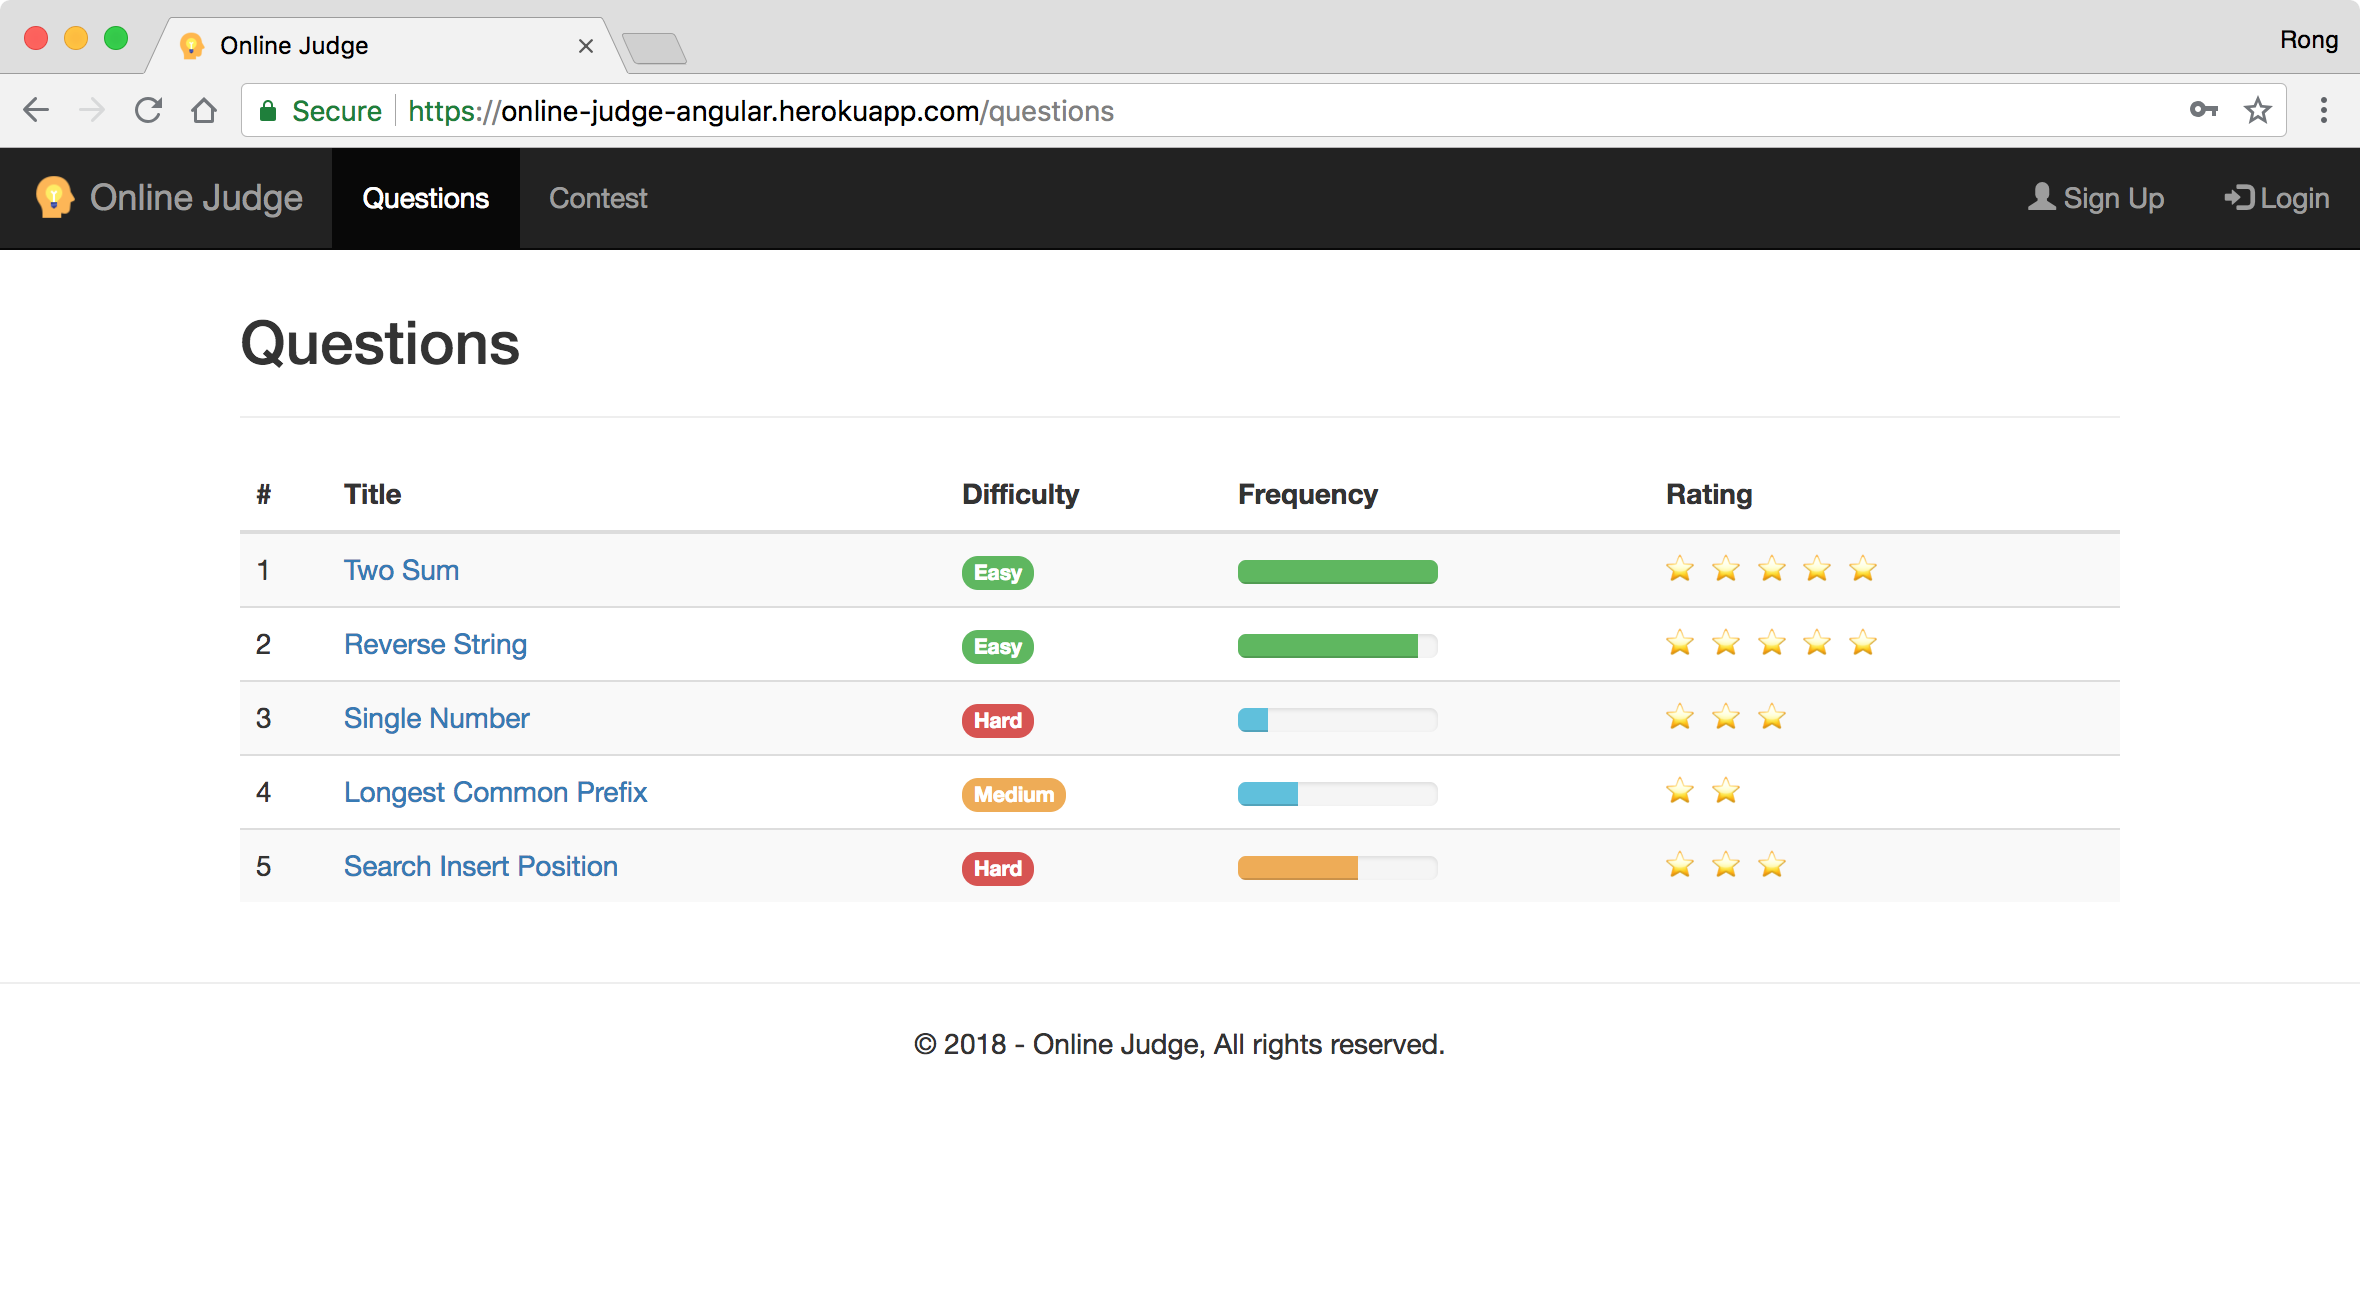
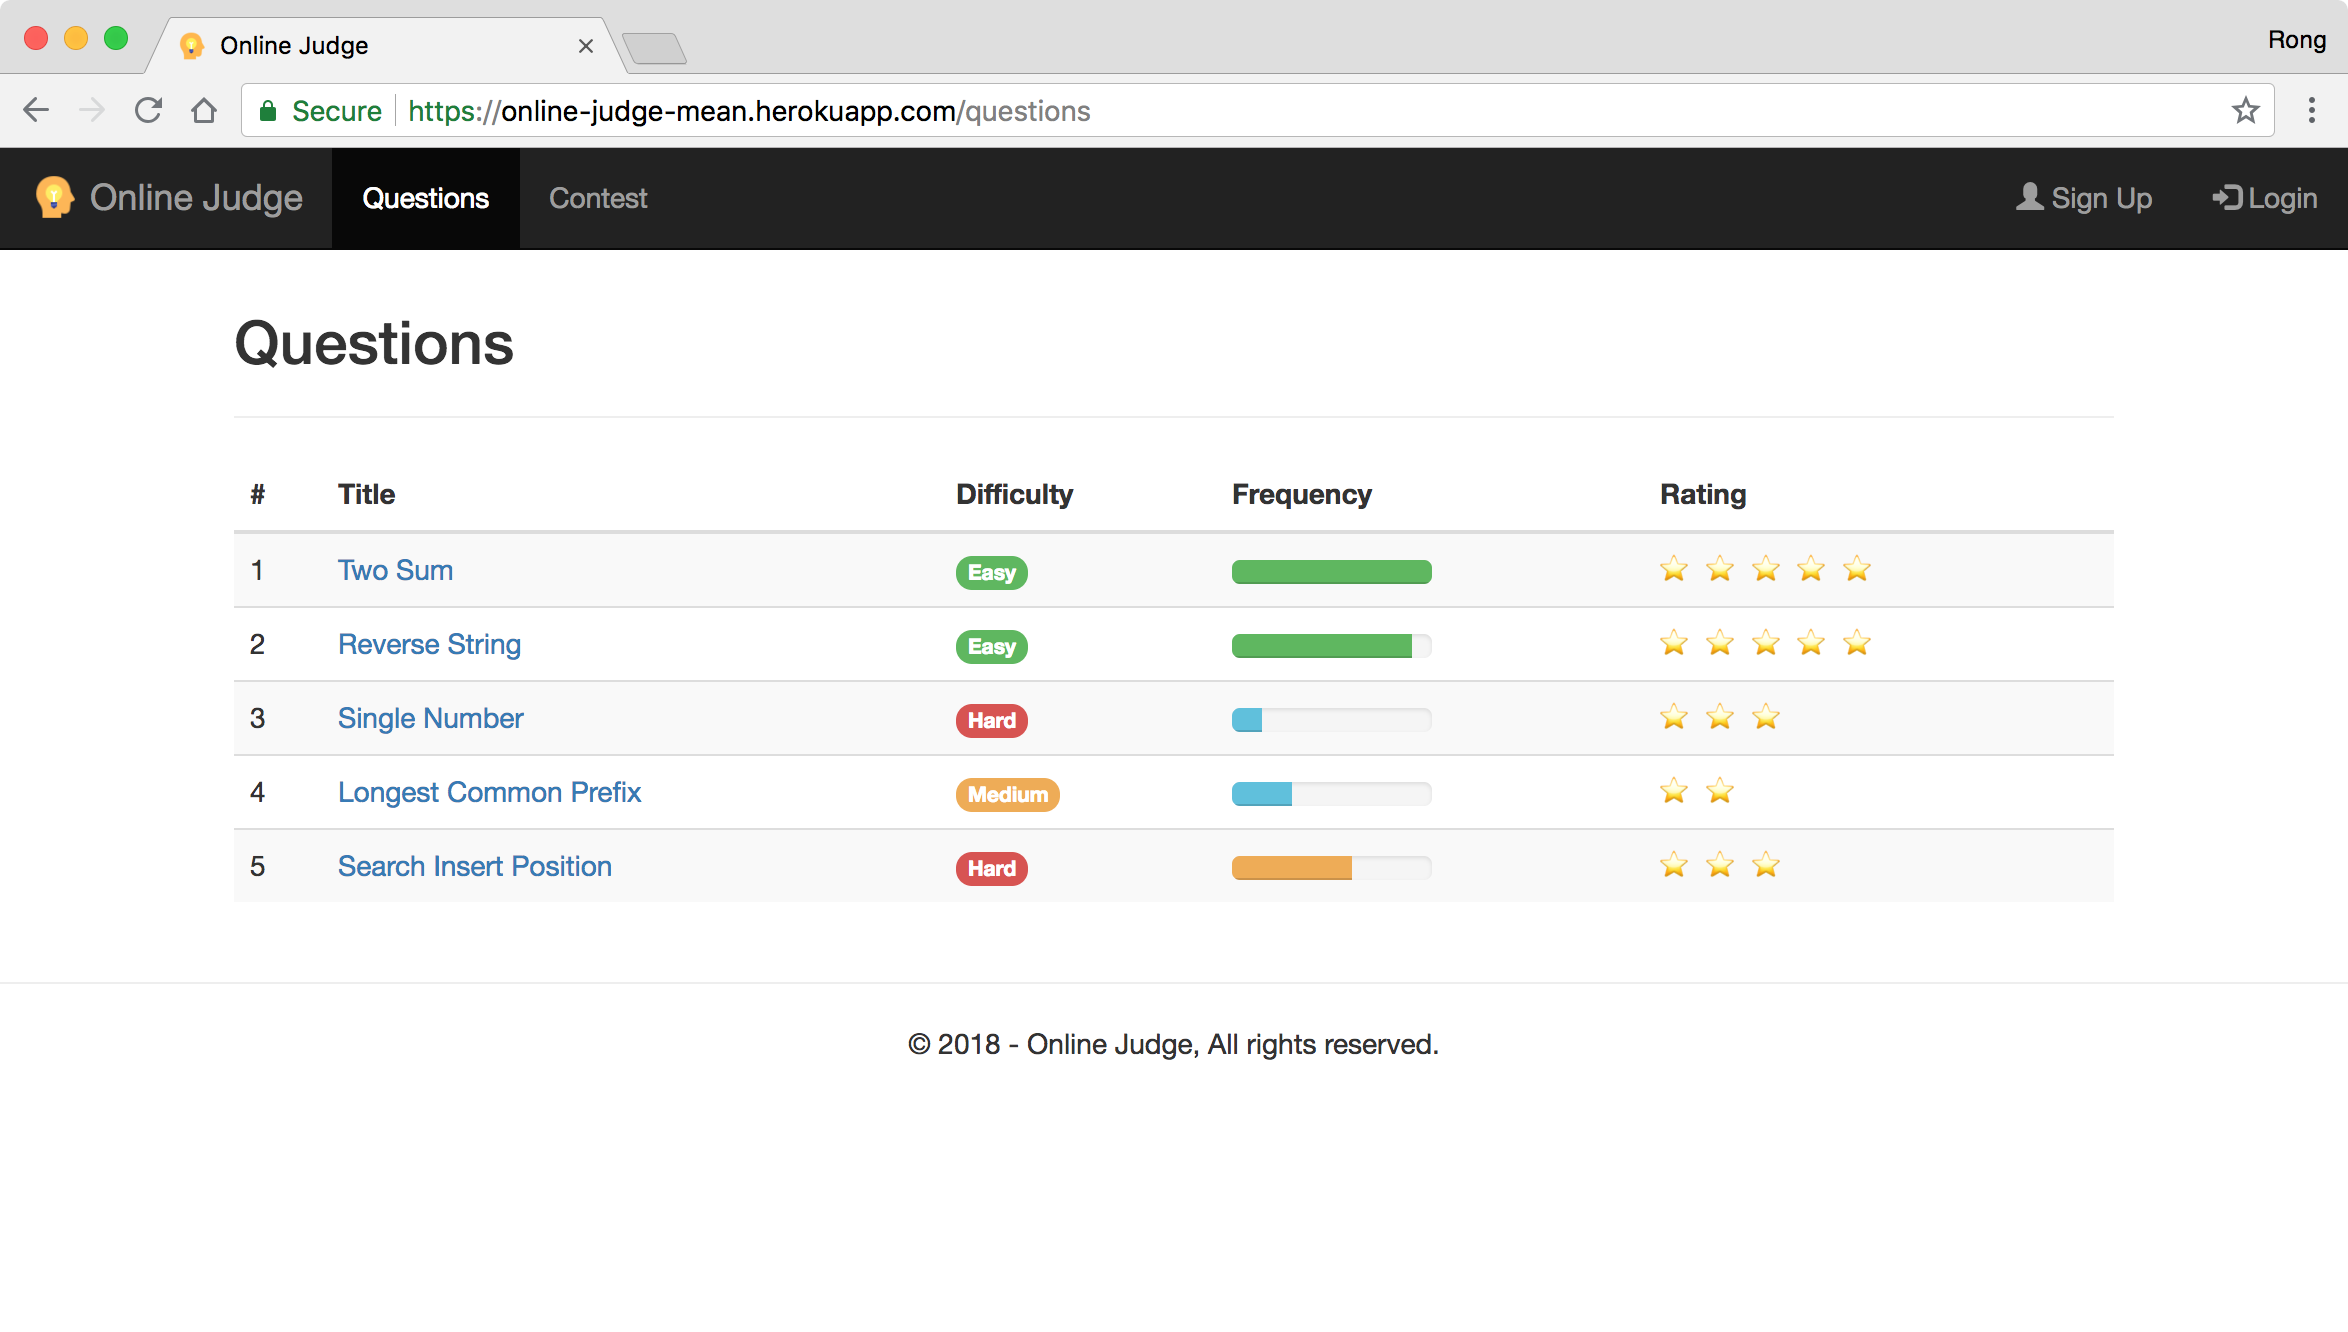
deploy online judge, rename to mean

diff --git a/_tutorial/angular/deploying-full-stack-angular-app-to-heroku.md b/_tutorial/angular/deploying-full-stack-angular-app-to-heroku.md
@@ -328,7 +328,7 @@ The Angular app is built and exported to dist folder. All are static files(html,
 ![image](/public/tutorials/340/build.png){:width="800px"}  
 2) Create App on Heroku
 ```sh
-$ heroku create online-judge-angular
+$ heroku create online-judge-mean
 ```
 3) Create git repository.
 ```sh
@@ -352,11 +352,11 @@ remote:
 remote:  !     Push failed
 remote: Verifying deploy...
 remote:
-remote: !	Push rejected to online-judge-angular.
+remote: !	Push rejected to online-judge-mean.
 remote:
-To https://git.heroku.com/online-judge-angular.git
+To https://git.heroku.com/online-judge-mean.git
  ! [remote rejected] master -> master (pre-receive hook declined)
-error: failed to push some refs to 'https://git.heroku.com/online-judge-angular.git'
+error: failed to push some refs to 'https://git.heroku.com/online-judge-mean.git'
 ```
 Error occurs, Heroku is not able to determine the language of the app. Actually, it is just a static web site since we compile the Angular app. The solution is: rename './dist/index.html' to './dist/index.php'. Then, push again.
 ```sh
@@ -413,10 +413,10 @@ remote: -----> Compressing...
 remote:        Done: 16.2M
 remote: -----> Launching...
 remote:        Released v3
-remote:        https://online-judge-angular.herokuapp.com/ deployed to Heroku
+remote:        https://online-judge-mean.herokuapp.com/ deployed to Heroku
 remote:
 remote: Verifying deploy... done.
-To https://git.heroku.com/online-judge-angular.git
+To https://git.heroku.com/online-judge-mean.git
  * [new branch]      master -> master
 ```
 The push is successful.
@@ -424,13 +424,15 @@ The push is successful.
 If you changed the app name or you are deploying new changes. You need to re-connect your git repository to Heroku app.
 ```sh
 $ git remote rm heroku
-$ heroku git:remote -a online-judge-angular
+$ heroku git:remote -a online-judge-mean
 ```
 4) Testing Client  
-Open web browser, access 'https://online-judge-angular.herokuapp.com/'. The Angular app is working now.
+Open web browser, access 'https://online-judge-mean.herokuapp.com/'. The Angular app is working now.
 ![image](/public/tutorials/340/home.png)
 Click on the 'Questions' menu.
 ![image](/public/tutorials/340/questions.png)
+Go to the question details.
+![image](/public/tutorials/340/question.png)
 
 ## 4. Reference
 * [Getting Started on Heroku with Node.js](https://devcenter.heroku.com/articles/getting-started-with-nodejs#introduction)
